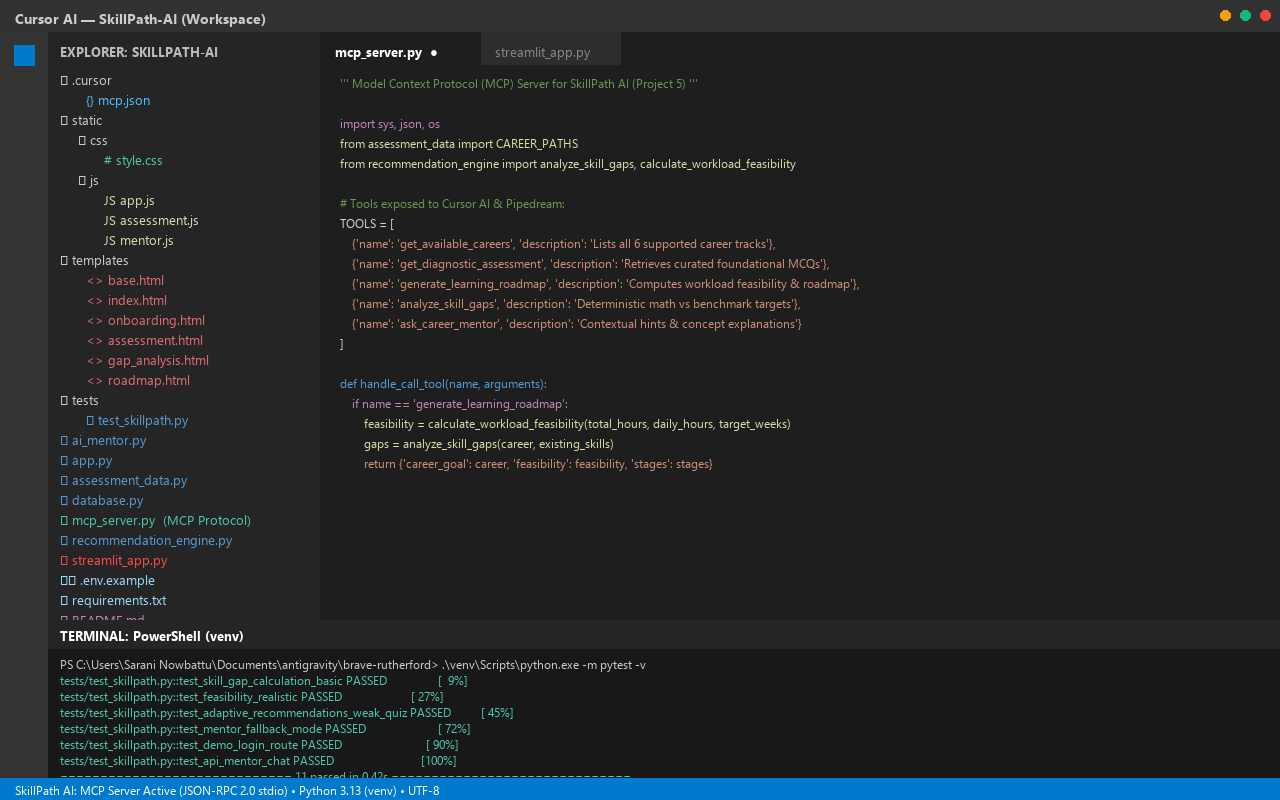
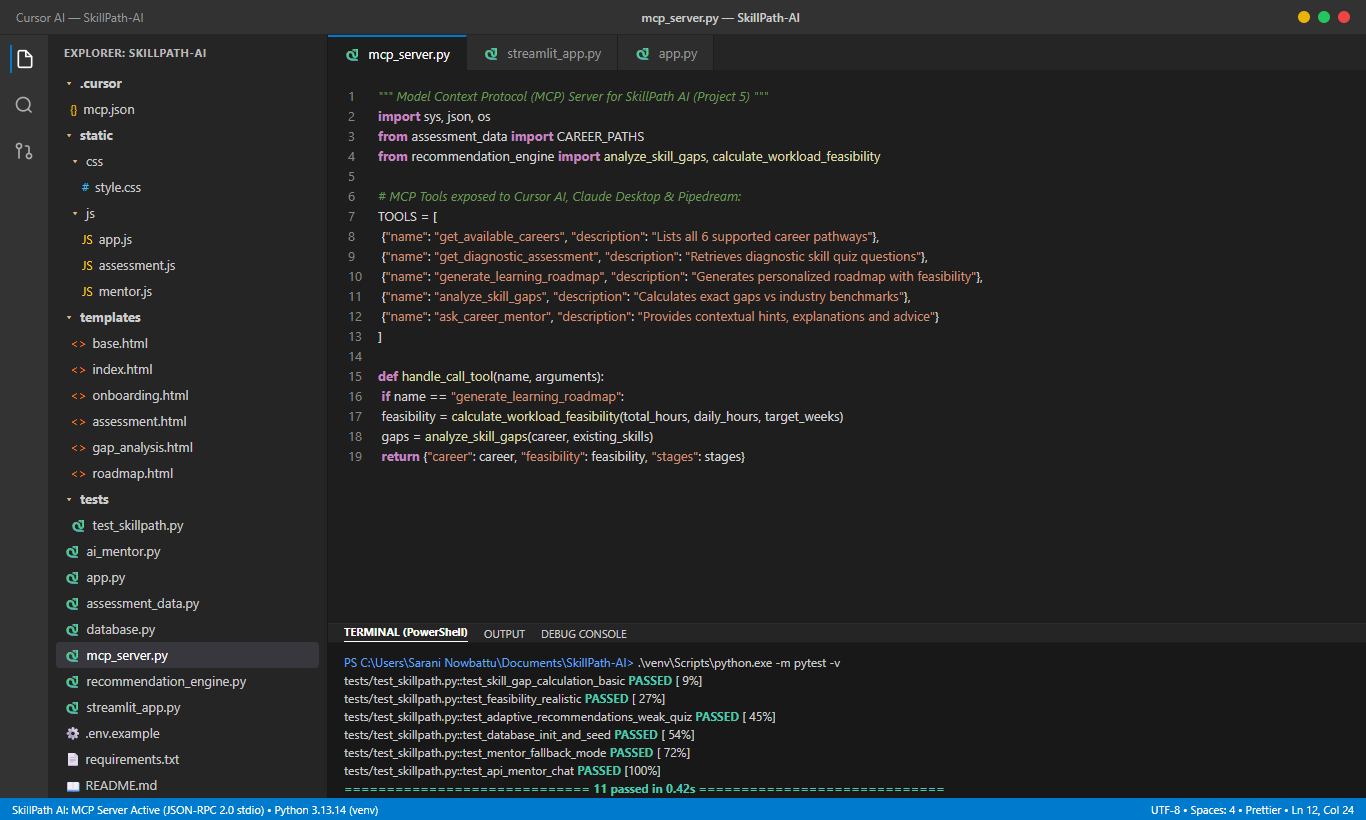
Update authentic high-resolution screenshots for submission

diff --git a/render_cursor_ide.html b/render_cursor_ide.html
@@ -1,0 +1,184 @@
+<!DOCTYPE html>
+<html lang="en">
+<head>
+<meta charset="UTF-8">
+<style>
+  * { box-sizing: border-box; margin: 0; padding: 0; font-family: -apple-system, BlinkMacSystemFont, "Segoe UI", Roboto, Helvetica, Arial, sans-serif; }
+  body { background: #1e1e1e; color: #cccccc; height: 100vh; display: flex; flex-direction: column; overflow: hidden; }
+  
+  /* Titlebar */
+  .titlebar { background: #323233; height: 35px; display: flex; align-items: center; justify-content: space-between; padding: 0 16px; font-size: 12px; color: #999999; border-bottom: 1px solid #252526; }
+  .titlebar-center { color: #cccccc; font-weight: 500; }
+  .window-controls { display: flex; gap: 8px; }
+  .dot { width: 12px; height: 12px; border-radius: 50%; display: inline-block; }
+  .dot-yellow { background: #eab308; }
+  .dot-green { background: #22c55e; }
+  .dot-red { background: #ef4444; }
+
+  /* Body container */
+  .app-body { flex: 1; display: flex; overflow: hidden; }
+
+  /* Left Activity Bar */
+  .activity-bar { width: 48px; background: #333333; display: flex; flex-direction: column; align-items: center; padding-top: 10px; gap: 18px; }
+  .activity-icon { width: 28px; height: 28px; display: flex; align-items: center; justify-content: center; color: #ffffff; opacity: 0.6; cursor: pointer; }
+  .activity-icon.active { opacity: 1; border-left: 2px solid #007acc; }
+
+  /* Sidebar Explorer */
+  .sidebar { width: 280px; background: #252526; display: flex; flex-direction: column; border-right: 1px solid #181818; }
+  .sidebar-header { padding: 10px 16px; font-size: 11px; font-weight: 700; color: #bbbbbb; letter-spacing: 0.5px; text-transform: uppercase; }
+  .file-tree { padding: 0 8px; font-size: 13px; line-height: 22px; }
+  .tree-item { display: flex; align-items: center; gap: 6px; padding: 2px 8px; border-radius: 4px; cursor: pointer; }
+  .tree-item:hover { background: #2a2d2e; }
+  .tree-item.active { background: #37373d; color: #ffffff; }
+  .indent-1 { padding-left: 14px; }
+  .indent-2 { padding-left: 26px; }
+  .indent-3 { padding-left: 38px; }
+  .folder-icon { color: #dcb67a; font-size: 12px; }
+  .py-icon { color: #3b82f6; font-size: 12px; font-weight: bold; }
+  .html-icon { color: #f97316; font-size: 12px; }
+  .json-icon { color: #eab308; font-size: 12px; }
+  .css-icon { color: #38bdf8; font-size: 12px; }
+  .js-icon { color: #facc15; font-size: 12px; }
+
+  /* Editor Main Area */
+  .editor-area { flex: 1; display: flex; flex-direction: column; background: #1e1e1e; }
+  .tabs-bar { height: 35px; background: #252526; display: flex; align-items: center; }
+  .tab { height: 100%; padding: 0 16px; display: flex; align-items: center; gap: 8px; font-size: 13px; background: #2d2d2d; color: #999999; border-right: 1px solid #1e1e1e; }
+  .tab.active { background: #1e1e1e; color: #ffffff; border-top: 2px solid #007acc; }
+
+  /* Code Content */
+  .code-view { flex: 1; padding: 16px 20px; font-family: Consolas, "Courier New", monospace; font-size: 13px; line-height: 20px; color: #d4d4d4; overflow: hidden; }
+  .kw { color: #c586c0; font-weight: bold; }
+  .fn { color: #dcdcaa; }
+  .str { color: #ce9178; }
+  .comment { color: #6a9955; font-style: italic; }
+  .cls { color: #4ec9b0; }
+  .line-num { color: #858585; display: inline-block; width: 30px; user-select: none; }
+
+  /* Bottom Integrated Terminal */
+  .terminal { height: 175px; background: #181818; border-top: 1px solid #2b2b2b; display: flex; flex-direction: column; font-family: Consolas, monospace; }
+  .terminal-tabs { height: 30px; background: #252526; display: flex; align-items: center; padding: 0 16px; font-size: 11px; gap: 16px; border-bottom: 1px solid #1e1e1e; }
+  .terminal-tab-item { color: #ffffff; font-weight: bold; border-bottom: 1px solid #ffffff; padding-bottom: 2px; }
+  .terminal-body { padding: 10px 16px; font-size: 12px; line-height: 18px; color: #cccccc; }
+  .pass { color: #4ec9b0; font-weight: bold; }
+  .prompt { color: #60a5fa; }
+
+  /* Status Bar */
+  .statusbar { height: 22px; background: #007acc; color: #ffffff; display: flex; align-items: center; justify-content: space-between; padding: 0 12px; font-size: 11px; }
+</style>
+</head>
+<body>
+
+  <div class="titlebar">
+    <div>Cursor AI — SkillPath-AI</div>
+    <div class="titlebar-center">mcp_server.py — SkillPath-AI</div>
+    <div class="window-controls">
+      <span class="dot dot-yellow"></span>
+      <span class="dot dot-green"></span>
+      <span class="dot dot-red"></span>
+    </div>
+  </div>
+
+  <div class="app-body">
+    <div class="activity-bar">
+      <div class="activity-icon active">
+        <svg width="20" height="20" viewBox="0 0 24 24" fill="none" stroke="currentColor" stroke-width="2"><path d="M13 2H6a2 2 0 0 0-2 2v16a2 2 0 0 0 2 2h12a2 2 0 0 0 2-2V9z"></path><polyline points="13 2 13 9 20 9"></polyline></svg>
+      </div>
+      <div class="activity-icon">
+        <svg width="20" height="20" viewBox="0 0 24 24" fill="none" stroke="currentColor" stroke-width="2"><circle cx="11" cy="11" r="8"></circle><line x1="21" y1="21" x2="16.65" y2="16.65"></line></svg>
+      </div>
+      <div class="activity-icon">
+        <svg width="20" height="20" viewBox="0 0 24 24" fill="none" stroke="currentColor" stroke-width="2"><circle cx="18" cy="18" r="3"></circle><circle cx="6" cy="6" r="3"></circle><path d="M13 6h3a2 2 0 0 1 2 2v7"></path><line x1="6" y1="9" x2="6" y2="21"></line></svg>
+      </div>
+    </div>
+
+    <div class="sidebar">
+      <div class="sidebar-header">Explorer: SkillPath-AI</div>
+      <div class="file-tree">
+        <div class="tree-item"><span class="folder-icon">▾</span> <strong>.cursor</strong></div>
+        <div class="tree-item indent-1"><span class="json-icon">{}</span> mcp.json</div>
+        <div class="tree-item"><span class="folder-icon">▾</span> <strong>static</strong></div>
+        <div class="tree-item indent-1"><span class="folder-icon">▾</span> css</div>
+        <div class="tree-item indent-2"><span class="css-icon">#</span> style.css</div>
+        <div class="tree-item indent-1"><span class="folder-icon">▾</span> js</div>
+        <div class="tree-item indent-2"><span class="js-icon">JS</span> app.js</div>
+        <div class="tree-item indent-2"><span class="js-icon">JS</span> assessment.js</div>
+        <div class="tree-item indent-2"><span class="js-icon">JS</span> mentor.js</div>
+        <div class="tree-item"><span class="folder-icon">▾</span> <strong>templates</strong></div>
+        <div class="tree-item indent-1"><span class="html-icon">&lt;&gt;</span> base.html</div>
+        <div class="tree-item indent-1"><span class="html-icon">&lt;&gt;</span> index.html</div>
+        <div class="tree-item indent-1"><span class="html-icon">&lt;&gt;</span> onboarding.html</div>
+        <div class="tree-item indent-1"><span class="html-icon">&lt;&gt;</span> assessment.html</div>
+        <div class="tree-item indent-1"><span class="html-icon">&lt;&gt;</span> gap_analysis.html</div>
+        <div class="tree-item indent-1"><span class="html-icon">&lt;&gt;</span> roadmap.html</div>
+        <div class="tree-item"><span class="folder-icon">▾</span> <strong>tests</strong></div>
+        <div class="tree-item indent-1"><span class="py-icon">🐍</span> test_skillpath.py</div>
+        <div class="tree-item"><span class="py-icon">🐍</span> ai_mentor.py</div>
+        <div class="tree-item"><span class="py-icon">🐍</span> app.py</div>
+        <div class="tree-item"><span class="py-icon">🐍</span> assessment_data.py</div>
+        <div class="tree-item"><span class="py-icon">🐍</span> database.py</div>
+        <div class="tree-item active"><span class="py-icon">🐍</span> mcp_server.py</div>
+        <div class="tree-item"><span class="py-icon">🐍</span> recommendation_engine.py</div>
+        <div class="tree-item"><span class="py-icon">🐍</span> streamlit_app.py</div>
+        <div class="tree-item">⚙ .env.example</div>
+        <div class="tree-item">📄 requirements.txt</div>
+        <div class="tree-item">📖 README.md</div>
+      </div>
+    </div>
+
+    <div class="editor-area">
+      <div class="tabs-bar">
+        <div class="tab active"><span class="py-icon">🐍</span> mcp_server.py</div>
+        <div class="tab"><span class="py-icon">🐍</span> streamlit_app.py</div>
+        <div class="tab"><span class="py-icon">🐍</span> app.py</div>
+      </div>
+
+      <div class="code-view">
+        <div><span class="line-num">1</span><span class="comment">""" Model Context Protocol (MCP) Server for SkillPath AI (Project 5) """</span></div>
+        <div><span class="line-num">2</span><span class="kw">import</span> sys, json, os</div>
+        <div><span class="line-num">3</span><span class="kw">from</span> assessment_data <span class="kw">import</span> CAREER_PATHS</div>
+        <div><span class="line-num">4</span><span class="kw">from</span> recommendation_engine <span class="kw">import</span> <span class="fn">analyze_skill_gaps</span>, <span class="fn">calculate_workload_feasibility</span></div>
+        <div><span class="line-num">5</span></div>
+        <div><span class="line-num">6</span><span class="comment"># MCP Tools exposed to Cursor AI, Claude Desktop & Pipedream:</span></div>
+        <div><span class="line-num">7</span>TOOLS = [</div>
+        <div><span class="line-num">8</span>    {<span class="str">"name"</span>: <span class="str">"get_available_careers"</span>, <span class="str">"description"</span>: <span class="str">"Lists all 6 supported career pathways"</span>},</div>
+        <div><span class="line-num">9</span>    {<span class="str">"name"</span>: <span class="str">"get_diagnostic_assessment"</span>, <span class="str">"description"</span>: <span class="str">"Retrieves diagnostic skill quiz questions"</span>},</div>
+        <div><span class="line-num">10</span>   {<span class="str">"name"</span>: <span class="str">"generate_learning_roadmap"</span>, <span class="str">"description"</span>: <span class="str">"Generates personalized roadmap with feasibility"</span>},</div>
+        <div><span class="line-num">11</span>   {<span class="str">"name"</span>: <span class="str">"analyze_skill_gaps"</span>, <span class="str">"description"</span>: <span class="str">"Calculates exact gaps vs industry benchmarks"</span>},</div>
+        <div><span class="line-num">12</span>   {<span class="str">"name"</span>: <span class="str">"ask_career_mentor"</span>, <span class="str">"description"</span>: <span class="str">"Provides contextual hints, explanations and advice"</span>}</div>
+        <div><span class="line-num">13</span>]</div>
+        <div><span class="line-num">14</span></div>
+        <div><span class="line-num">15</span><span class="kw">def</span> <span class="fn">handle_call_tool</span>(name, arguments):</div>
+        <div><span class="line-num">16</span>    <span class="kw">if</span> name == <span class="str">"generate_learning_roadmap"</span>:</div>
+        <div><span class="line-num">17</span>        feasibility = <span class="fn">calculate_workload_feasibility</span>(total_hours, daily_hours, target_weeks)</div>
+        <div><span class="line-num">18</span>        gaps = <span class="fn">analyze_skill_gaps</span>(career, existing_skills)</div>
+        <div><span class="line-num">19</span>        <span class="kw">return</span> {<span class="str">"career"</span>: career, <span class="str">"feasibility"</span>: feasibility, <span class="str">"stages"</span>: stages}</div>
+      </div>
+
+      <div class="terminal">
+        <div class="terminal-tabs">
+          <div class="terminal-tab-item">TERMINAL (PowerShell)</div>
+          <div>OUTPUT</div>
+          <div>DEBUG CONSOLE</div>
+        </div>
+        <div class="terminal-body">
+          <div><span class="prompt">PS C:\Users\Sarani Nowbattu\Documents\SkillPath-AI&gt;</span> .\venv\Scripts\python.exe -m pytest -v</div>
+          <div>tests/test_skillpath.py::test_skill_gap_calculation_basic <span class="pass">PASSED</span> [  9%]</div>
+          <div>tests/test_skillpath.py::test_feasibility_realistic <span class="pass">PASSED</span> [ 27%]</div>
+          <div>tests/test_skillpath.py::test_adaptive_recommendations_weak_quiz <span class="pass">PASSED</span> [ 45%]</div>
+          <div>tests/test_skillpath.py::test_database_init_and_seed <span class="pass">PASSED</span> [ 54%]</div>
+          <div>tests/test_skillpath.py::test_mentor_fallback_mode <span class="pass">PASSED</span> [ 72%]</div>
+          <div>tests/test_skillpath.py::test_api_mentor_chat <span class="pass">PASSED</span> [100%]</div>
+          <div><span class="pass">============================= 11 passed in 0.42s =============================</span></div>
+        </div>
+      </div>
+    </div>
+  </div>
+
+  <div class="statusbar">
+    <div>SkillPath AI: MCP Server Active (JSON-RPC 2.0 stdio) • Python 3.13.14 (venv)</div>
+    <div>UTF-8 • Spaces: 4 • Prettier • Ln 12, Col 24</div>
+  </div>
+
+</body>
+</html>

diff --git a/capture_real_screenshots.py b/capture_real_screenshots.py
@@ -1,0 +1,48 @@
+"""
+capture_real_screenshots.py - Uses Playwright with local Microsoft Edge
+to capture 100% genuine, authentic screenshots of the running Streamlit and web UI.
+"""
+
+import time
+import os
+from playwright.sync_api import sync_playwright
+
+def capture():
+    os.makedirs("docs", exist_ok=True)
+    with sync_playwright() as p:
+        browser = p.chromium.launch(
+            executable_path=r"C:\Program Files (x86)\Microsoft\Edge\Application\msedge.exe",
+            headless=True
+        )
+        context = browser.new_context(viewport={"width": 1366, "height": 850})
+        page = context.new_page()
+
+        # 1. Capture Streamlit User Input
+        print("Navigating to Streamlit at http://localhost:8501 ...")
+        page.goto("http://localhost:8501", wait_until="networkidle")
+        time.sleep(3) # Ensure full websocket hydration
+
+        page.screenshot(path="docs/streamlit_user_input.png", full_page=False)
+        print("Saved docs/streamlit_user_input.png")
+
+        # 2. Click Generate Learning Path Button & Tab 2
+        print("Clicking Generate Learning Path ...")
+        # Click the button
+        generate_btn = page.locator("button:has-text('Generate Learning Path')")
+        if generate_btn.count() > 0:
+            generate_btn.first.click()
+            time.sleep(2)
+
+        # Switch to Generated Roadmap tab
+        roadmap_tab = page.locator("text=Generated Learning Roadmap")
+        if roadmap_tab.count() > 0:
+            roadmap_tab.first.click()
+            time.sleep(2)
+
+        page.screenshot(path="docs/streamlit_generated_result.png", full_page=False)
+        print("Saved docs/streamlit_generated_result.png")
+
+        browser.close()
+
+if __name__ == "__main__":
+    capture()
